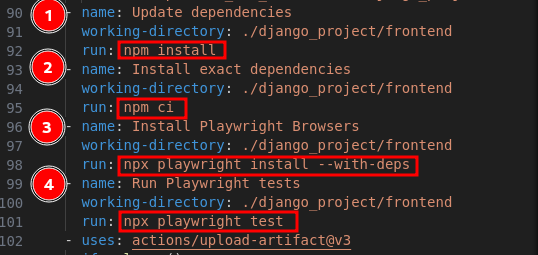
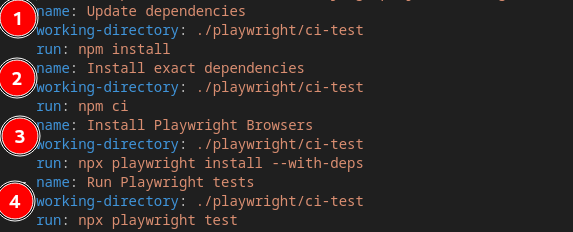
Updated testing docs

Changed region(s): [[0.0, 0.0, 0.8625, 1.0]]

diff --git a/docs/src/developer/guide/testing.md b/docs/src/developer/guide/testing.md
@@ -1,6 +1,10 @@
 # Testing
 
-It is the act of examining software behaviour.
+End-to-end testing.
+
+## Essential reading:
+
+* https://playwright.dev/
 
 ## Setting up a testing environment
 
@@ -8,18 +12,31 @@ Please follow the Kartoza [coding standards](https://kartoza.github.io/TheKartoz
 
 ### Testing prerequisites
 
-In this project setup, we perform end-to-end testing.
-
 The primary framework used is [playwright](https://playwright.dev/).
 
 ### Setting up playwright
+
+Navigate to the `playwright` directory, there are two other directories present:
+    
+    1. ci-tests
+    2. staging-tests
+
+Navigate to `ci-tests`.
 
 To install `playwright` ensure you have [Node.js](https://nodejs.org/en) installed.
 
 Once `Node.js` is installed, use `npm` JavaScript package manager to install `playwright`.
 
+To install dependencies defined in `package.json` file:
+
 ```bash
-$ npm init playwright@latest
+npm install
+```
+
+To install playwright browsers and OS secific depndencies:
+
+```bash
+npm playwright install --with-deps
 ```
 
 **Note:**
@@ -28,28 +45,32 @@ $ npm init playwright@latest
 
 This command will install all the required browsers and other dependencies. The [directory structure](https://playwright.dev/docs/intro#whats-installed) will be as follows:
 
-```bash
-playwright.config.ts
-package.json
-package-lock.json
-tests/
-  example.spec.ts
-tests-examples/
-  demo-todo-app.spec.ts
-```
-
 ### Running tests
 
 By default, tests will run on three browsers in headless mode.
 
+To run all tests:
+
 ```bash
-$ npx playwright test
+npx playwright test
+```
+
+To run a specific test file:
+
+```bash
+npx playwright test tests/'TESTNAME'.spec.ts
 ```
 
 To run it in UI mode, one can add `--ui` tag at the end.
 
 ```bash
-$ npx playwright test --ui
+npx playwright test --ui
+```
+
+To run a specific file in UI mode:
+
+```bash
+npx playwright test --ui tests/'TESTNAME'.spec.ts
 ```
 
 ### Test reports
@@ -57,10 +78,10 @@ $ npx playwright test --ui
 To generate test reports:
 
 ```bash
-$ npx playwright show-report
+npx playwright show-report
 ```
 
-### Continuous intergration github actions
+### Continuous intergration testing
 
 Use of [continuous integration and playwright](https://playwright.dev/docs/ci-intro).
 
@@ -82,7 +103,7 @@ Running coverage tests:
 
 ![coverage tests](./img/testing-continuous-intergration-4.png)
 
-On setting up and testing using playwright:
+On setting up and testing using playwright.
 
 ![testing playwright](./img/testing-continuous-intergration-5.png)
 
@@ -94,5 +115,52 @@ On setting up and testing using playwright:
 Reports: It will generate a report as HTML document and it will be retained for 30 days if it is present in that directory
 
 ![testing report](./img/testing-continuous-intergration-6.png)
+
+### Staging tests
+
+#### Setting up environment
+
+**NixOS**
+
+If you are a NixOS user, you can set up direnv and then cd into this directory in your shell.
+
+When you do so the first time, you will be prompted to allow direnv which you can do using this command:
+
+
+```bash
+direnv allow
+```
+
+>  This may take a while the first time as NixOS builds you a sandbox environment.
+
+**Non-NixOS**
+
+For a non-NixOS user(Debian/Ubuntu) set up your environment by the following [commands](./testing.md/#setting-up-a-testing-environment).
+
+#### Recording a test
+
+There is a bash helper script that will let you quickly create a new test:
+
+```
+Usage: ./record-test.sh TESTNAME
+e.g. ./record-test.sh mytest
+will write a new test to tests/mytest.spec.ts
+Do not use spaces in your test name.
+Test files MUST END in .spec.ts
+
+After recording your test, close the test browser.
+You can then run your test by doing:
+./run-tests.sh
+```
+
+
+>  The first time you record a test, it will store your session credentials in a file ending in ``auth.json``. This file should **NEVER** be committed to git / shared publicly. There is a gitignore rule to ensure this.
+
+#### Running a test
+
+
+```bash
+./run-tests.sh
+```
 
 The report can be downloaded and shared.
